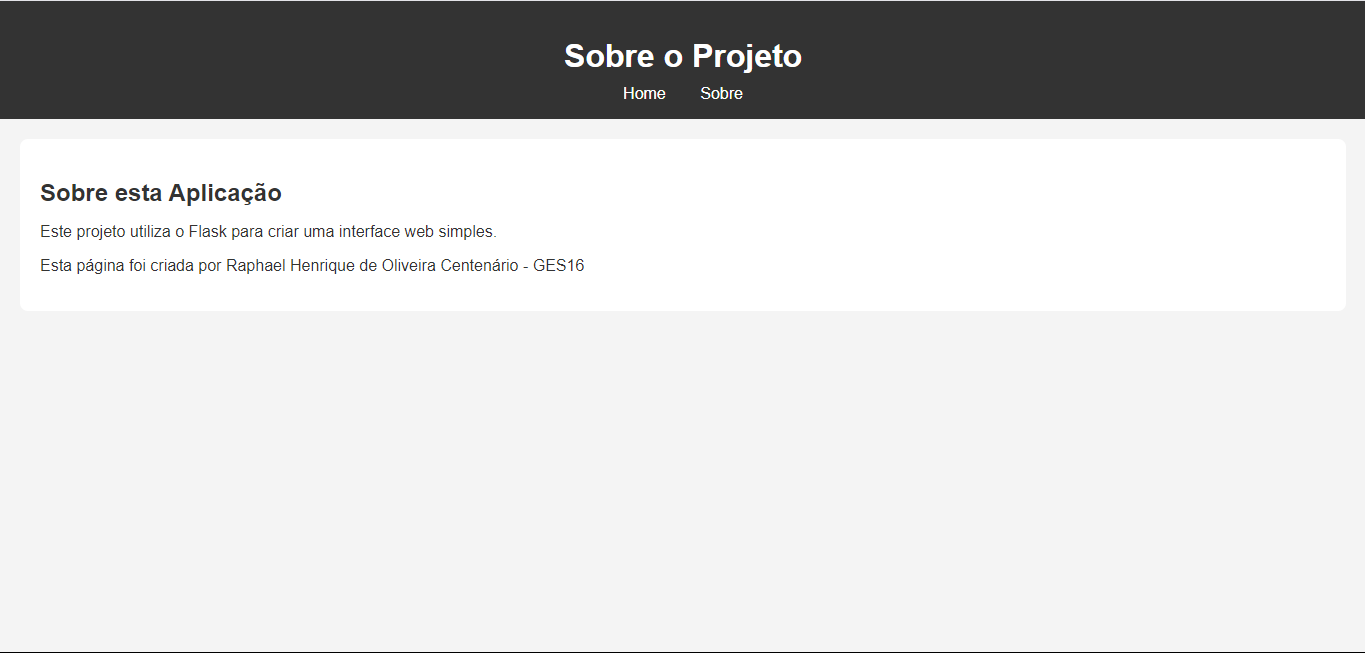
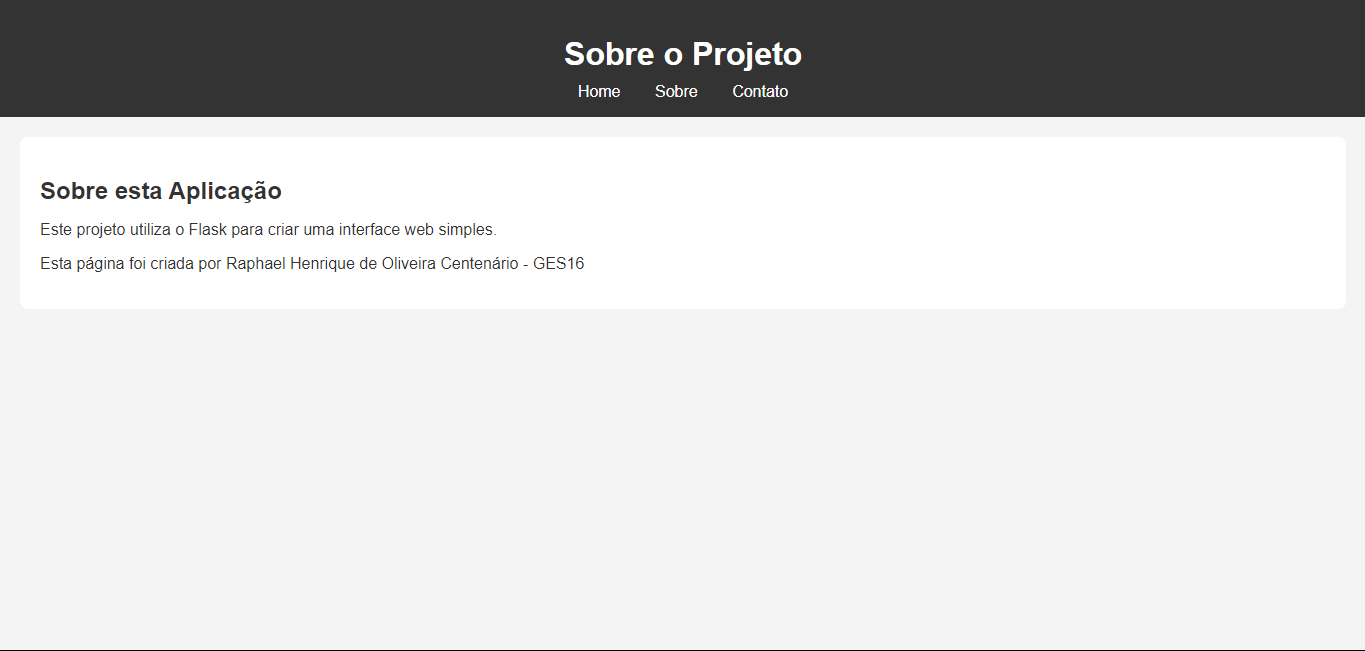
corrigindo a tarefa da aula 5

diff --git a/frontend/templates/contact.html b/frontend/templates/contact.html
@@ -11,7 +11,8 @@
         <h1>Informações fictícias</h1>
         <nav>
             <a href="/">Home</a>
-            <a href="/about">Contato</a>
+            <a href="/about">Sobre</a>
+            <a href="/contact">Contato</a>
         </nav>
     </header>
     <section>

diff --git a/frontend/templates/about.html b/frontend/templates/about.html
@@ -12,6 +12,7 @@
         <nav>
             <a href="/">Home</a>
             <a href="/about">Sobre</a>
+            <a href="/contact">Contato</a>
         </nav>
     </header>
     <section>

diff --git a/frontend/templates/index.html b/frontend/templates/index.html
@@ -12,6 +12,7 @@
         <nav>
             <a href="/">Home</a>
             <a href="/about">Sobre</a>
+            <a href="/contact">Contato</a>
         </nav>
     </header>
     <section>
